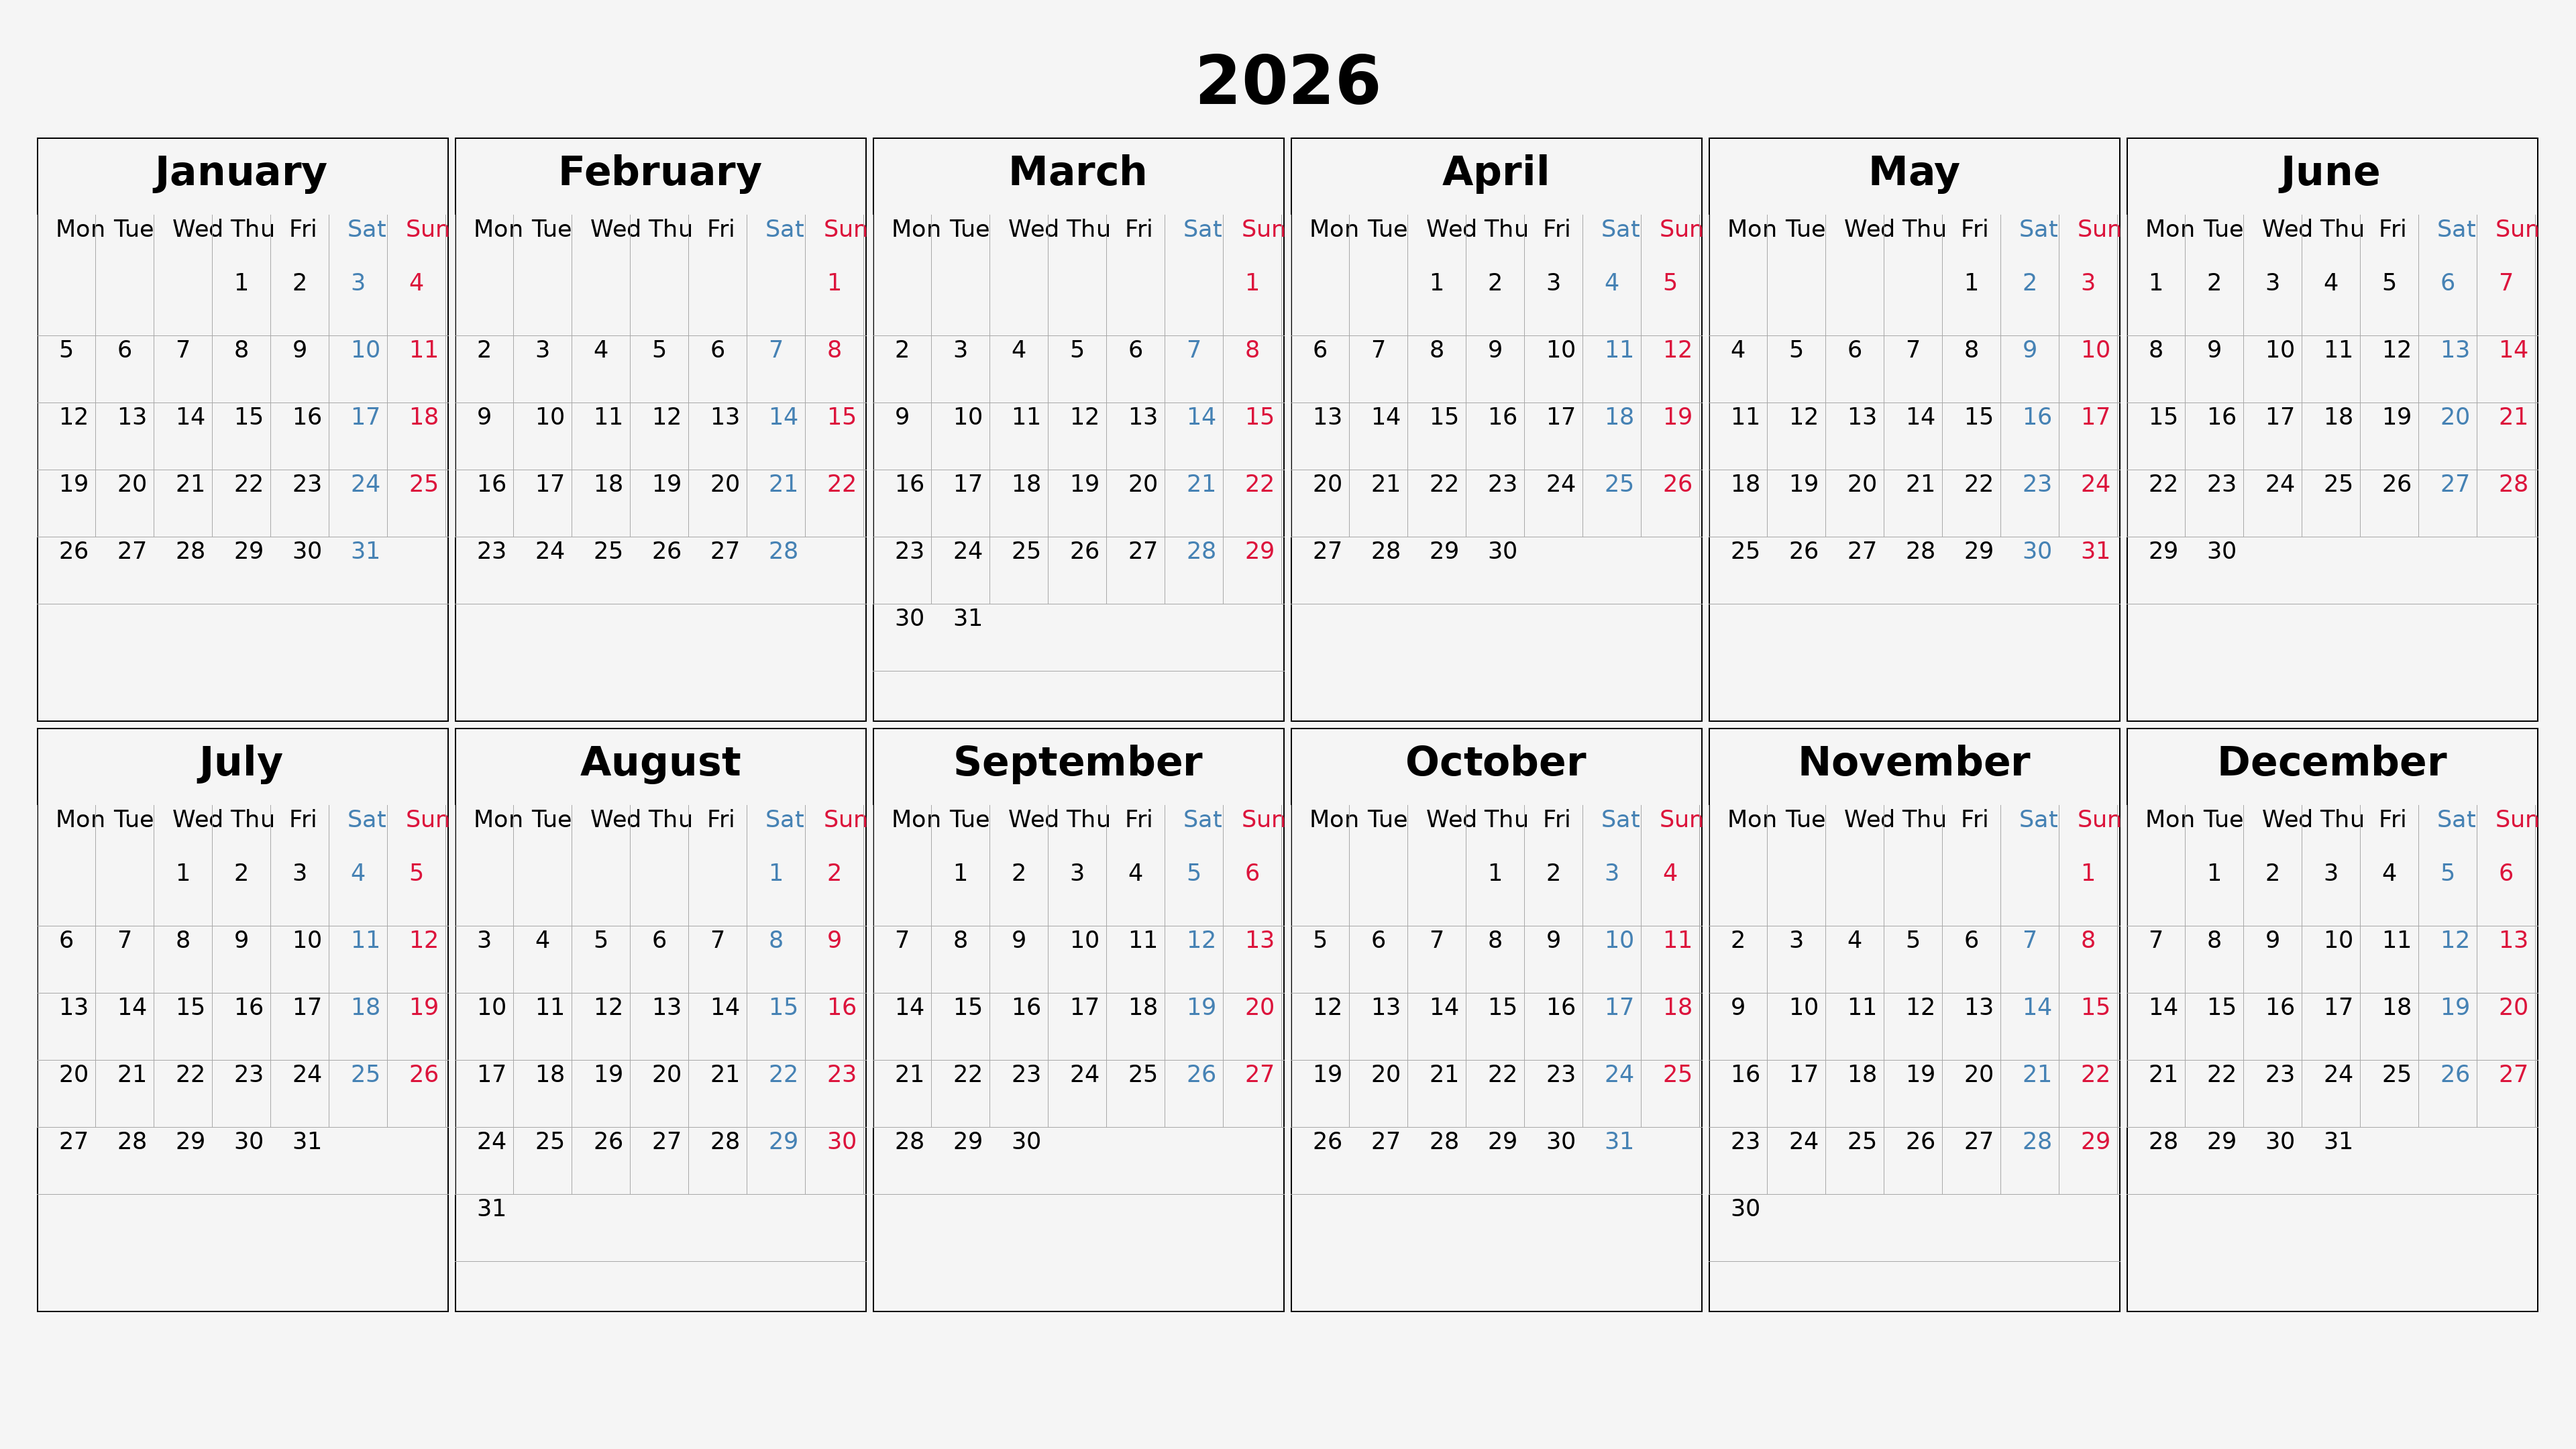
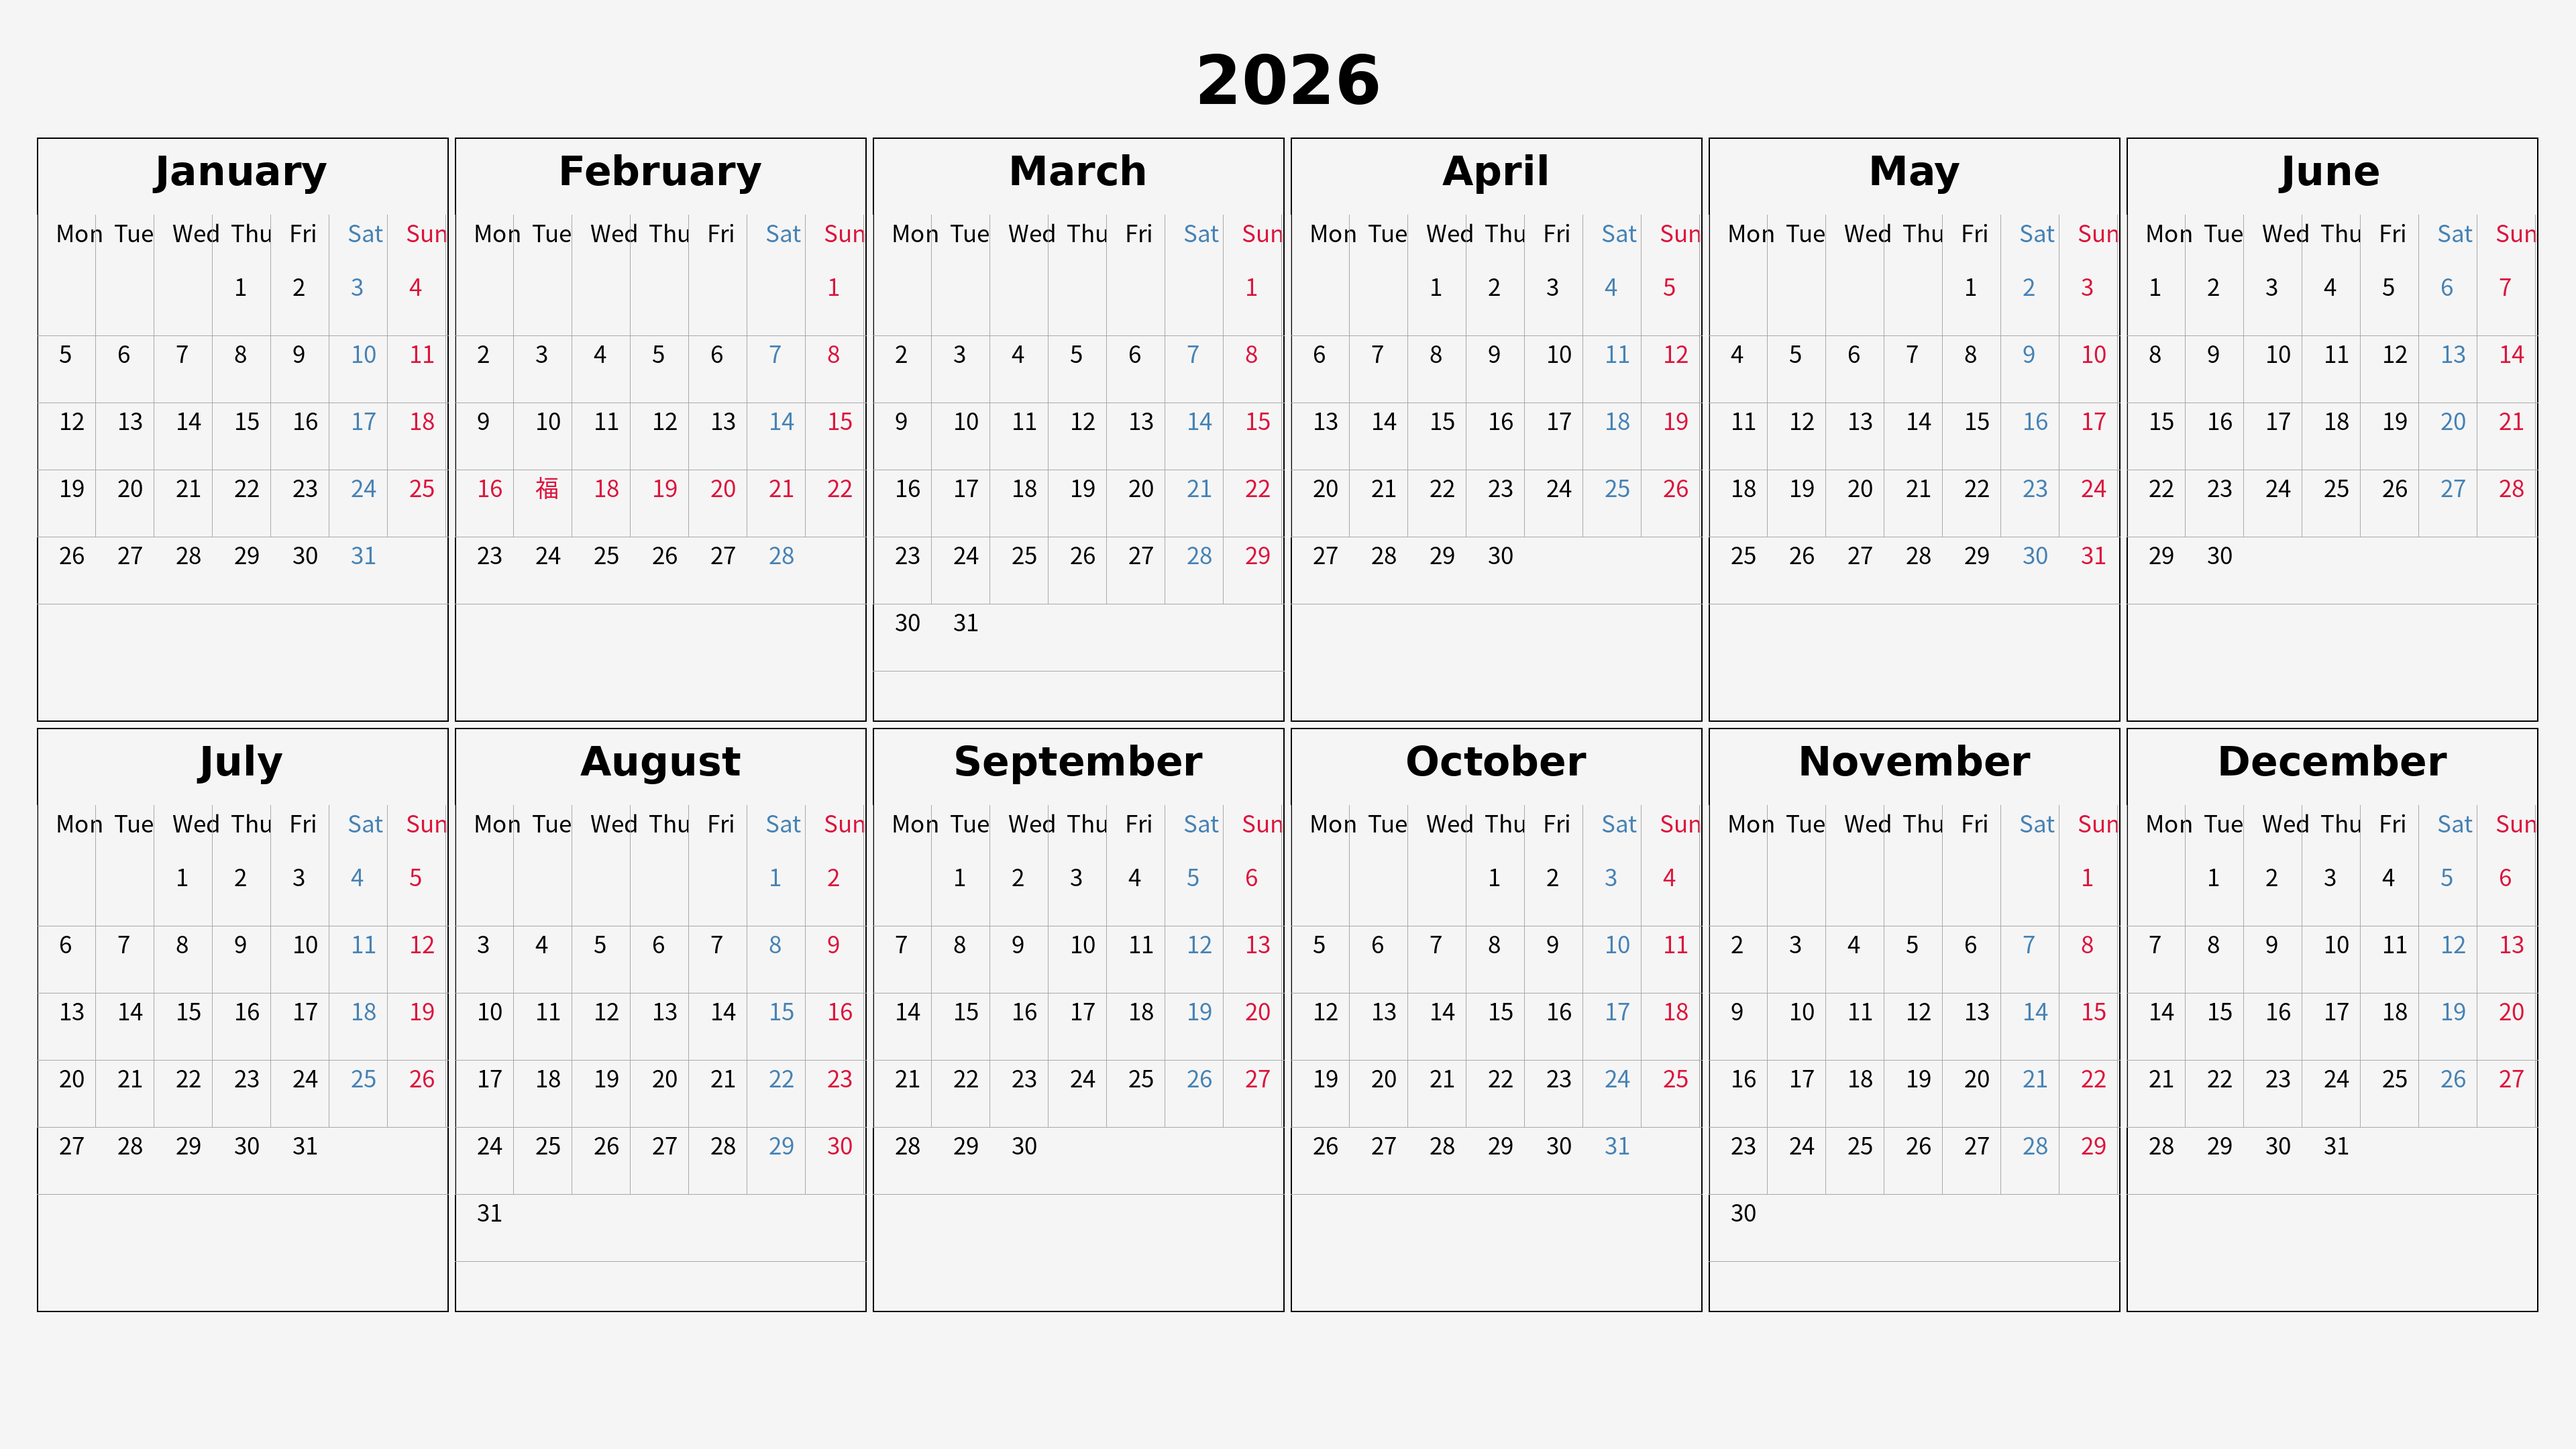
Some refactor

diff --git a/calendar_generator.py b/calendar_generator.py
@@ -1,7 +1,31 @@
 import calendar
 from PIL import Image, ImageDraw, ImageFont
 import os
+from datetime import timedelta, date
+from lunarcalendar import Converter, Lunar
 from config import *
+
+
+def get_chinese_new_year_dates(year):
+    """Get the dates of Chinese New Year (正月初一 to 正月初五) for the given year."""
+    dates = []
+    for day in range(1, 6):  # 初一 to 初五
+        solar = Converter.Lunar2Solar(Lunar(year, 1, day))
+        dates.append((solar.day, solar.month))
+    return dates
+
+
+def get_chinese_new_year_eve(year):
+    """Get the date of Chinese New Year's Eve (除夕) for the given year."""
+    # Chinese New Year is Lunar New Year's Day (正月初一)
+    spring_festival = Converter.Lunar2Solar(Lunar(year, 1, 1))
+    # Convert to date object
+    festival_date = date(
+        spring_festival.year, spring_festival.month, spring_festival.day
+    )
+    # New Year's Eve is the day before
+    eve = festival_date - timedelta(days=1)
+    return eve.day, eve.month
 
 
 def load_fonts():
@@ -17,7 +41,22 @@ def load_fonts():
     return font, large_font, small_font
 
 
-def draw_month(draw, x, y, month, year, font, small_font, black, gray, red, blue):
+def draw_month(
+    draw,
+    x,
+    y,
+    month,
+    year,
+    font,
+    small_font,
+    black,
+    gray,
+    red,
+    blue,
+    new_year_dates,
+    eve_day,
+    eve_month,
+):
     """Draw a single month calendar."""
     # Draw month border
     draw.rectangle(
@@ -64,9 +103,20 @@ def draw_month(draw, x, y, month, year, font, small_font, black, gray, red, blue
     for week in cal:
         for i, day in enumerate(week):
             if day != 0:
-                color = red if i == 6 else blue if i == 5 else black
+                # Check if this is Chinese New Year's Eve or New Year (初一 to 初五)
+                if (day, month) == (eve_day, eve_month) or (
+                    day,
+                    month,
+                ) in new_year_dates:
+                    color = red
+                else:
+                    color = red if i == 6 else blue if i == 5 else black
                 text_x = x + 5 + i * cell_width + cell_width // 2 - 10
-                draw.text((text_x, start_y), str(day), fill=color, font=small_font)
+                # Special case for Chinese New Year's Day (初一): draw "福"
+                if (day, month) == new_year_dates[0]:
+                    draw.text((text_x, start_y), "福", fill=red, font=small_font)
+                else:
+                    draw.text((text_x, start_y), str(day), fill=color, font=small_font)
         draw.line(
             [x + 5, start_y + cell_height, x + month_width - 5, start_y + cell_height],
             fill=gray,
@@ -90,6 +140,11 @@ def generate_calendar(year):
 
         font, large_font, small_font = load_fonts()
 
+        # Get Chinese New Year dates (初一 to 初五)
+        new_year_dates = get_chinese_new_year_dates(year)
+        # Get Chinese New Year's Eve date
+        eve_day, eve_month = get_chinese_new_year_eve(year)
+
         # Draw year
         year_text = str(year)
         bbox = draw.textbbox((0, 0), year_text, font=large_font)
@@ -106,7 +161,20 @@ def generate_calendar(year):
                 x = col * ((WIDTH - LEFT_MARGIN - RIGHT_MARGIN) // 6) + LEFT_MARGIN
                 y = row * ((HEIGHT - TOP_MARGIN - BOTTOM_MARGIN) // 2) + TOP_MARGIN
                 draw_month(
-                    draw, x, y, month, year, font, small_font, BLACK, GRAY, RED, BLUE
+                    draw,
+                    x,
+                    y,
+                    month,
+                    year,
+                    font,
+                    small_font,
+                    BLACK,
+                    GRAY,
+                    RED,
+                    BLUE,
+                    new_year_dates,
+                    eve_day,
+                    eve_month,
                 )
 
         # Save

diff --git a/config.py b/config.py
@@ -12,7 +12,7 @@ BOTTOM_MARGIN = 200
 
 # Font paths and sizes
 FONT_PATH_BOLD = "/usr/share/fonts/truetype/dejavu/DejaVuSans-Bold.ttf"
-FONT_PATH_REGULAR = "/usr/share/fonts/truetype/dejavu/DejaVuSans.ttf"
+FONT_PATH_REGULAR = "/usr/share/fonts/opentype/noto/NotoSansCJK-Regular.ttc"
 FONT_SIZE_TITLE = 60
 FONT_SIZE_YEAR = 100
 FONT_SIZE_DAYS = 35
